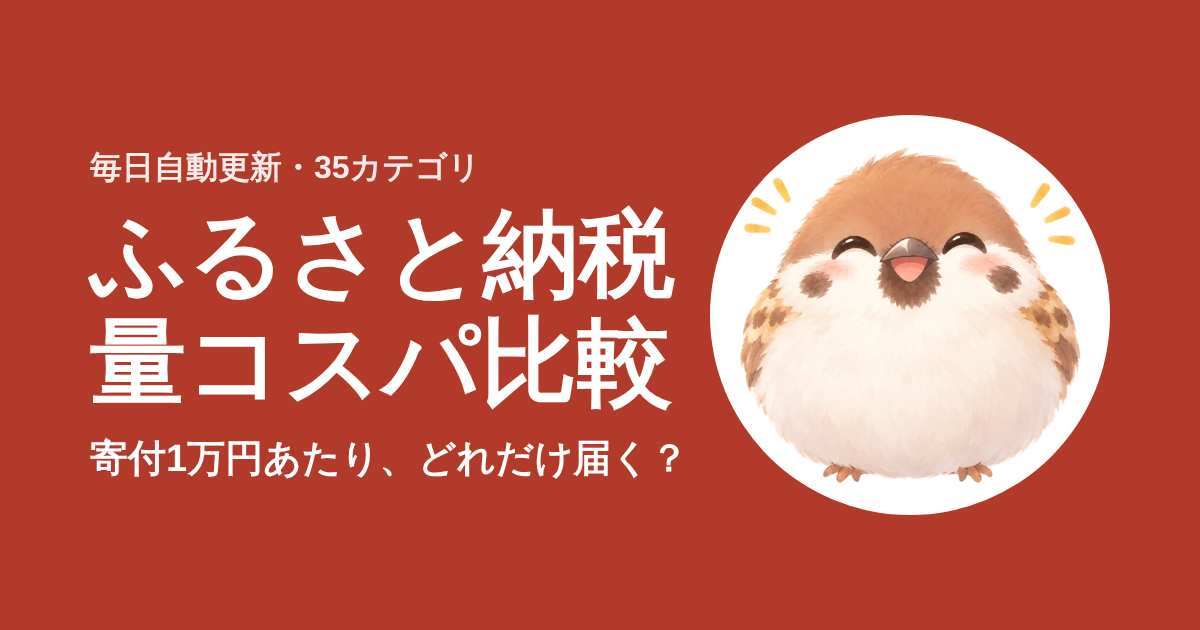
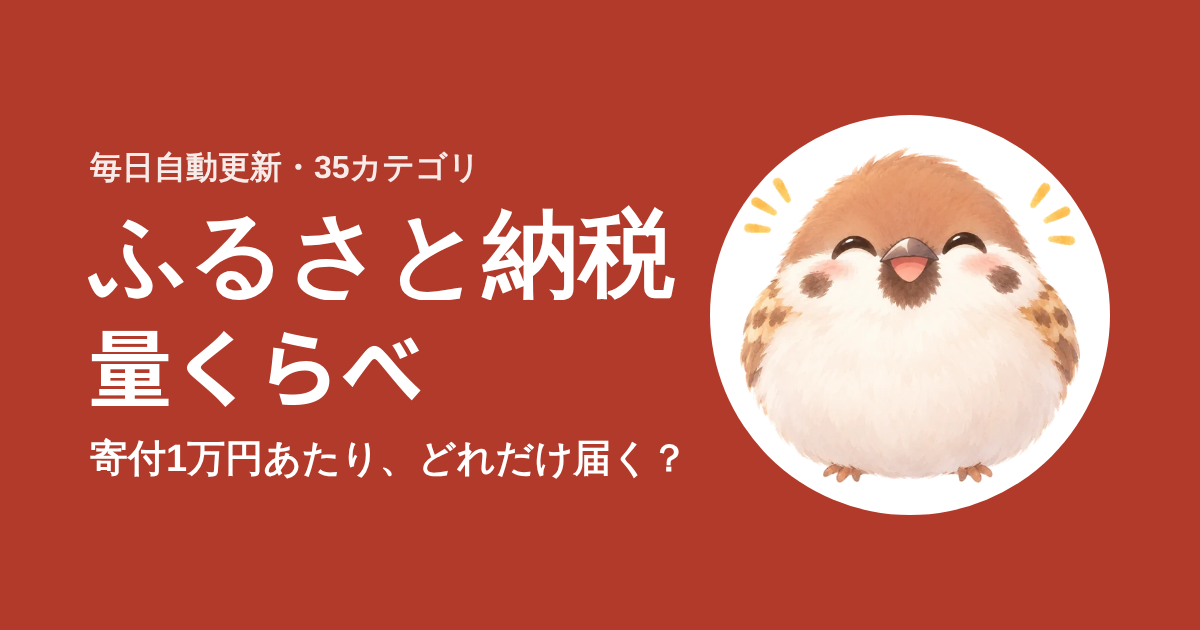
ふるさと納税サイト: 広告主の禁止表現(コスパ・お得・還元等)を中立表現に変更、サイト名を「量くらべ」に
Claude-Session: https://claude.ai/code/session_01LGetwVLrGceYDCmked7CmR

Changed region(s): [[0.0617, 0.4825, 0.555, 0.6635]]

diff --git a/sites/furusato/templates/category.html b/sites/furusato/templates/category.html
@@ -5,7 +5,7 @@
 <style>.badge.chg.good{background:#e6f4ea;color:#1e6b34}.badge.chg.bad{background:#fdeee8;color:#a3401c}.chg-note{margin:6px 0 0;color:var(--muted)}.stats .mk dd small{display:block;font-size:11px;color:var(--muted)}.mk-src{color:var(--muted)}</style>
 {% endblock %}
 {% block content %}
-<h1>{{ cat.name }}の量コスパランキング</h1>
+<h1>{{ cat.name }}の内容量ランキング</h1>
 <p class="lead">楽天ふるさと納税の{{ cat.name }}{{ rank.ranked or 0 }}件を、寄付1万円あたりの量（{{ cat.unit }}）が多い順に並べています。</p>
 {% set s = rank.summary or {} %}
 {% if s %}
@@ -41,7 +41,7 @@
         <div class="rank-score">{{ it.per10k | num(d) }}{{ cat.unit }}<small> / 1万円</small>{% if it.vs_median %} <span class="vs {{ 'up' if it.vs_median >= 1 else 'down' }}">相場の{{ "%.1f" | format(it.vs_median) }}倍</span>{% endif %}</div>
         <p class="rank-name">{{ it.name }}</p>
         <div class="rank-meta">
-          {% if it.wakeari %}<span class="badge">訳あり</span>{% endif %}{% if it.change and it.change.per10k_pct %}<span class="badge chg {{ 'good' if it.change.per10k_pct > 0 else 'bad' }}">{{ '量コスパ↑' if it.change.per10k_pct > 0 else '量コスパ↓' }}{{ it.change.per10k_pct | abs }}%</span>{% endif %}<span class="loc">{{ jp_mini(it.shop) }}{{ it.shop }}</span>{% if it.review_count %}<span>★{{ it.review_avg }}（{{ it.review_count | num }}件）</span>{% endif %}
+          {% if it.wakeari %}<span class="badge">訳あり</span>{% endif %}{% if it.change and it.change.per10k_pct %}<span class="badge chg {{ 'good' if it.change.per10k_pct > 0 else 'bad' }}">{{ '量↑' if it.change.per10k_pct > 0 else '量↓' }}{{ it.change.per10k_pct | abs }}%</span>{% endif %}<span class="loc">{{ jp_mini(it.shop) }}{{ it.shop }}</span>{% if it.review_count %}<span>★{{ it.review_avg }}（{{ it.review_count | num }}件）</span>{% endif %}
         </div>
       </div>
     </div>

diff --git a/sites/furusato/templates/portals.html b/sites/furusato/templates/portals.html
@@ -17,7 +17,7 @@
 {% endblock %}
 {% block content %}
 <h1>ポイント禁止後、各ふるさと納税サイトは何をしている？<span class="h1-sub">ポイントの代わりの施策とメリット・デメリット</span></h1>
-<p class="lead">2025年10月から、ふるさと納税サイトが寄付にポイントをつけることは禁止されました。その代わりに各サイトが用意している「お得に払う方法」をまとめています。</p>
+<p class="lead">2025年10月から、ふるさと納税サイトが寄付にポイントをつけることは禁止されました。その代わりに各サイトが用意している支払い時の特典をまとめています。</p>
 <p class="note">キャンペーンは期間限定で、内容がよく変わります。各サイトの「確認日」より後に変わっていることもあるので、寄付の前に公式ページで条件を確認してください。</p>
 
 <div class="card pt-sum">
@@ -61,7 +61,7 @@
 
 <div class="card">
   <h2 style="margin-top:0">結局どこで寄付すればいい？</h2>
-  <p>サイトのお得さの差は、今は数%程度です。まずは<a href="{{ page.root }}">量コスパランキング</a>で欲しい返礼品を決めて、その返礼品が載っているサイトの中から、自分が使っている決済やポイントに合うところを選ぶのがおすすめです。</p>
+  <p>サイトごとの特典の差は、今は数%程度です。まずは<a href="{{ page.root }}">内容量ランキング</a>で欲しい返礼品を決めて、その返礼品が載っているサイトの中から、自分が使っている決済やポイントに合うところを選ぶとよいでしょう。</p>
   <p>クレジットカードの通常ポイントはどのサイトでもつくことが多いので、カード会社のポイント条件も確認しておきましょう。</p>
 </div>
 {% endblock %}

diff --git a/sites/furusato/templates/pref.html b/sites/furusato/templates/pref.html
@@ -4,11 +4,11 @@
 <div class="pref-head">
   {{ jp_mini(pref) }}
   <div>
-    <h1>{{ pref }}のふるさと納税 量コスパ返礼品</h1>
+    <h1>{{ pref }}のふるさと納税 量の多い返礼品</h1>
     {% if rows %}
-    <p class="lead">{{ pref }}の返礼品が、カテゴリ別の量コスパで<b>上位{{ nav.top_n_map }}位</b>に入っているのは{{ rows | length }}カテゴリです。</p>
+    <p class="lead">{{ pref }}の返礼品が、カテゴリ別の内容量ランキングで<b>上位{{ nav.top_n_map }}位</b>に入っているのは{{ rows | length }}カテゴリです。</p>
     {% else %}
-    <p class="lead">今は、{{ pref }}の返礼品で量コスパ上位{{ nav.top_n_map }}位に入っているものはありません。ランキングは毎日更新されるので、入れ替わることがあります。</p>
+    <p class="lead">今は、{{ pref }}の返礼品で内容量ランキング上位{{ nav.top_n_map }}位に入っているものはありません。ランキングは毎日更新されるので、入れ替わることがあります。</p>
     {% endif %}
   </div>
 </div>

diff --git a/sites/furusato/templates/index.html b/sites/furusato/templates/index.html
@@ -10,7 +10,7 @@
 </section>
 
 <a class="sim-strip" href="{{ page.root }}simulator/"><b>いくらまで寄付できる？</b><span>年収を入れるだけで控除上限額を計算</span></a>
-<a class="sim-strip" href="{{ page.root }}portals/"><b>ポイント禁止後、どのサイトがお得？</b><span>各サイトのポイントの代わりの特典を比較</span></a>
+<a class="sim-strip" href="{{ page.root }}portals/"><b>ポイント禁止後、各サイトはどう変わった？</b><span>ポイントの代わりの特典を一覧で比較</span></a>
 
 {% if nav.season %}
 <section class="season" id="season">
@@ -45,7 +45,7 @@
 
 <section id="map">
   <h2>地図で見る</h2>
-  <p class="small">色が濃い県ほど、量コスパの良い返礼品が多い地域です。県を押すと、その県の返礼品をまとめて見られます。</p>
+  <p class="small">色が濃い県ほど、1万円あたりの量が多い返礼品が多い地域です。県を押すと、その県の返礼品をまとめて見られます。</p>
   {% include "_map.html" %}
 </section>
 

diff --git a/sites/furusato/templates/about.html b/sites/furusato/templates/about.html
@@ -17,7 +17,7 @@
   <h2>「お店で買うと」の計算</h2>
   <p>総務省の小売物価統計調査（東京都区部）にある平均価格を使い、<strong>内容量 × お店での平均価格</strong>で計算した目安です。お米・肉・魚・卵・果物・水・ビールなど、同じ品目の価格がある返礼品だけに表示しています。銘柄の品種・部位・等級は返礼品と同じとは限らないので、参考としてご覧ください。</p>
 
-  <h2>「量コスパ↑↓」の印</h2>
+  <h2>「量↑↓」の印</h2>
   <p>毎日の取得のたびに寄付額と内容量を記録しています。前回の記録から寄付額や内容量が変わった返礼品には、1万円あたりの量がどれだけ増えた・減ったかを表示します（記録は2026年10月から）。</p>
 
   <h2>対象カテゴリ</h2>

diff --git a/sites/furusato/templates/simulator.html b/sites/furusato/templates/simulator.html
@@ -38,7 +38,7 @@
   <div class="res-sub" id="sub"></div>
 </section>
 
-<h2>この金額で寄付できる「量コスパ1位」</h2>
+<h2>この金額で寄付できる、1万円あたりの量が一番多い返礼品</h2>
 <p class="small">各カテゴリで、寄付額が上限以内のうち「1万円あたりの量」が一番多い返礼品です（{{ data.fetched_at | jdate }} 時点）。</p>
 <div class="grid" id="picks"></div>
 

diff --git a/sites/furusato/fetch.py b/sites/furusato/fetch.py
@@ -1,4 +1,4 @@
-"""ふるさと納税 量コスパ比較: 楽天市場から返礼品を集め、寄付1万円あたりの量でランキングする。"""
+"""ふるさと納税 量くらべ: 楽天市場から返礼品を集め、寄付1万円あたりの量でランキングする。"""
 
 from __future__ import annotations
 
@@ -115,7 +115,7 @@ def update_history(path: Path, out: dict, today: str) -> None:
     """返礼品ごとに寄付額と内容量の記録を残し、前回から変わったものに印をつける。
 
     履歴は値が変わった日だけ追記する(毎日同じ値なら増えない)。
-    item["change"] = {"price": 旧寄付額, "qty": 旧内容量, "since": 変わる前の記録日, "per10k_pct": 量コスパの増減%}
+    item["change"] = {"price": 旧寄付額, "qty": 旧内容量, "since": 変わる前の記録日, "per10k_pct": 1万円あたりの量の増減%}
     """
     hist = json.loads(path.read_text(encoding="utf-8")) if path.exists() else {}
     for cid, r in out.items():
@@ -207,7 +207,7 @@ def _simulator_page(cfg: dict, data: dict, cats: list) -> dict:
                   "per10k_s": f"{it['per10k']:,.{d}f}", "qty_s": f"{it['qty']:g}",
                   "town": it.get("town") or it["shop"], "url": it["url"]}
                  for it in r.get("items", [])]
-        # 上限額ごとの1位だけ分かればよいので「より安くて量コスパが上の品が無いもの」だけ残す(ページを軽く)
+        # 上限額ごとの1位だけ分かればよいので「より安くて1万円あたりの量が多い品が無いもの」だけ残す(ページを軽く)
         front, best = [], -1.0
         for it in sorted(items, key=lambda x: (x["price"], -x["per10k"])):
             if it["per10k"] > best:
@@ -248,7 +248,7 @@ def _portals_page(data: dict) -> dict:
     checked = max((str(p.get("checked", "")) for p in portals), default="")
     return {"path": "portals/index.html", "template": "portals.html",
             "title": "ふるさと納税サイト比較｜ポイント禁止後の代わりの特典とメリット・デメリット",
-            "description": "2025年10月のポイント禁止後、楽天・ふるなび・au PAY・Yahoo!・ふるさとチョイス・さとふる・Amazonがポイントの代わりにやっていること(決済の増量・カード還元など)を、メリット・デメリット付きで比較。",
+            "description": "2025年10月のポイント禁止後、楽天・ふるなび・au PAY・Yahoo!・ふるさとチョイス・さとふる・Amazonがポイントの代わりにやっていること(決済の増量・カードのポイントなど)を、メリット・デメリット付きで比較。",
             "context": {"portals": portals, "checked": checked}, "changefreq": "weekly"}
 
 
@@ -298,7 +298,7 @@ def pages(cfg: dict, data: dict) -> list[dict]:
     nav = {"tops": tops, "others": others, "groups": list(groups.items()), "season": season,
            "pref_counts": pref_counts, "top_n_map": TOP_N_MAP}
     ps = [{"path": "index.html", "template": "index.html", "context": {"cats": cats, "nav": nav, "genres": GENRE_RANKINGS},
-           "title": f"ふるさと納税 コスパランキング｜寄付1万円あたりの量で比較【{_ym(data)}】"}]
+           "title": f"ふるさと納税 内容量ランキング｜寄付1万円あたりの量で比較【{_ym(data)}】"}]
     for c in cats:
         r = data["categories"].get(c["id"], {"items": []})
         ym = _ym(data)
@@ -310,11 +310,11 @@ def pages(cfg: dict, data: dict) -> list[dict]:
         ps.append({
             "path": f"c/{c['id']}/index.html",
             "template": "category.html",
-            "title": f"{c['name']}のふるさと納税 量コスパランキング【{ym}】",
+            "title": f"{c['name']}のふるさと納税 内容量ランキング【{ym}】",
             "description": desc,
             "context": {"cats": cats, "nav": nav, "cat": c, "rank": r, "ym": ym, "jsonld": {
                 "@context": "https://schema.org", "@type": "ItemList",
-                "name": f"{c['name']}のふるさと納税 量コスパランキング",
+                "name": f"{c['name']}のふるさと納税 内容量ランキング",
                 "itemListElement": [
                     {"@type": "ListItem", "position": i + 1, "name": it["name"][:100], "url": it["url"]}
                     for i, it in enumerate(r.get("items", [])[:10])]}},
@@ -336,11 +336,11 @@ def pages(cfg: dict, data: dict) -> list[dict]:
         near = [] if rows else allrows[:5]  # 上位に無い県は、順位が良い順に最大5件
         if rows:
             names = "・".join(dict.fromkeys(r["cat"]["name"] for r in rows[:5]))
-            desc = f"楽天ふるさと納税で{p}の返礼品が量コスパ上位{TOP_N_MAP}位に入ったカテゴリは{n}つ({names}など)。"
+            desc = f"楽天ふるさと納税で{p}の返礼品が内容量ランキング上位{TOP_N_MAP}位に入ったカテゴリは{n}つ({names}など)。"
         else:
             desc = f"楽天ふるさと納税の{p}の返礼品を、寄付1万円あたりの量で比べたときの順位。"
         ps.append({"path": f"pref/{SLUGS[p]}/index.html", "template": "pref.html",
-                   "title": f"{p}のふるさと納税 量コスパ返礼品【{_ym(data)}】",
+                   "title": f"{p}のふるさと納税 量の多い返礼品【{_ym(data)}】",
                    "description": desc + "毎日自動更新。",
                    "context": {"cats": cats, "nav": nav, "pref": p, "rows": rows, "near": near}})
     ps.append({"path": "about/index.html", "template": "about.html", "title": "このサイトについて・計算方法",

diff --git a/core/qty.py b/core/qty.py
@@ -1,4 +1,4 @@
-"""商品名から内容量(総量)を取り出す。「量コスパ」系サイトで共通に使う。
+"""商品名から内容量(総量)を取り出す。量比較系サイトで共通に使う。
 
     parse_quantity("【ふるさと納税】豚こま 250g×8パック 計2kg", "weight")  -> (2.0, "計2kg")
     parse_quantity("トイレットペーパー 12ロール×4パック", "count", ["ロール"]) -> (48.0, "12ロール×4")

diff --git a/README.md b/README.md
@@ -4,7 +4,7 @@
 
 | サイト | フォルダ | URL |
 |---|---|---|
-| ふるさと納税 量コスパ比較 | `sites/furusato` | https://furusato.otokuest.com |
+| ふるさと納税 量くらべ | `sites/furusato` | https://furusato.otokuest.com |
 | 業界別 実質時給ランキング(準備中) | `sites/jikyu` | https://jikyu.otokuest.com |
 
 ## しくみ
@@ -13,7 +13,7 @@
 core/                 全サイト共通
   build.py            ビルダー(データ取得 → Jinja2 → public/ 書き出し → sitemap.xml/robots.txt)
   rakuten.py          楽天ウェブサービス(新API)クライアント。Referer=okomen.workers.dev を付ける
-  qty.py              商品名から内容量を読む(量コスパ系で共通)
+  qty.py              商品名から内容量を読む(量比較系で共通)
   estat.py            e-Stat(政府統計)APIクライアント。キーは ESTAT_APP_ID
   industries.yaml     業界マスタ(産業大分類 C〜R ⇔ slug ⇔ TOPIX-17)。転職・株など業界軸のサイトで共有し、/gyokai/<slug>/ で相互リンクする
   templates/base.html PR表記・OGP・canonical・Cloudflare Web Analytics枠・フッター
